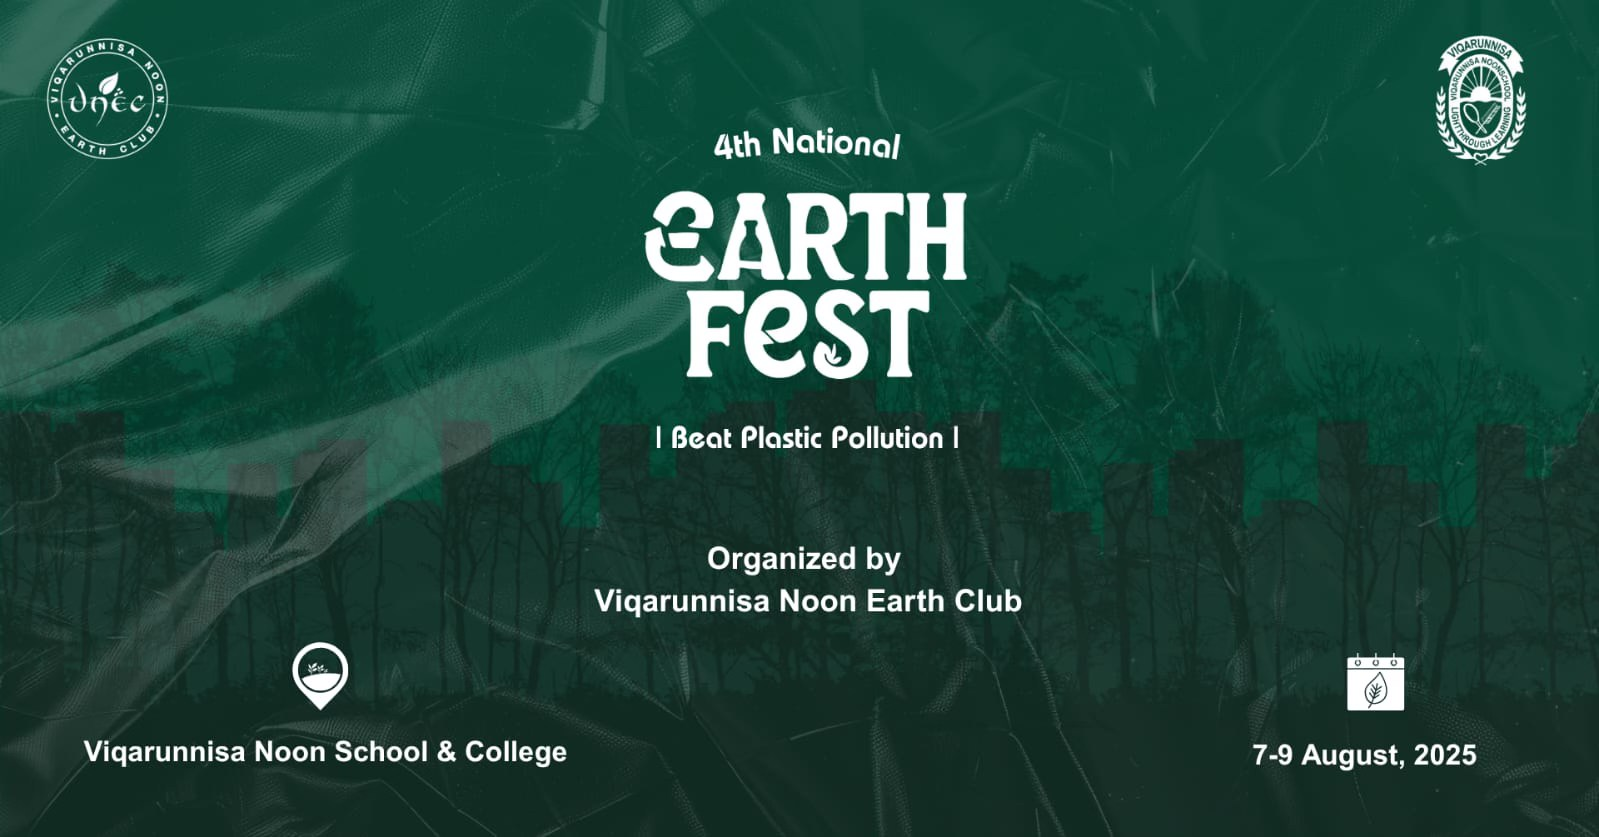
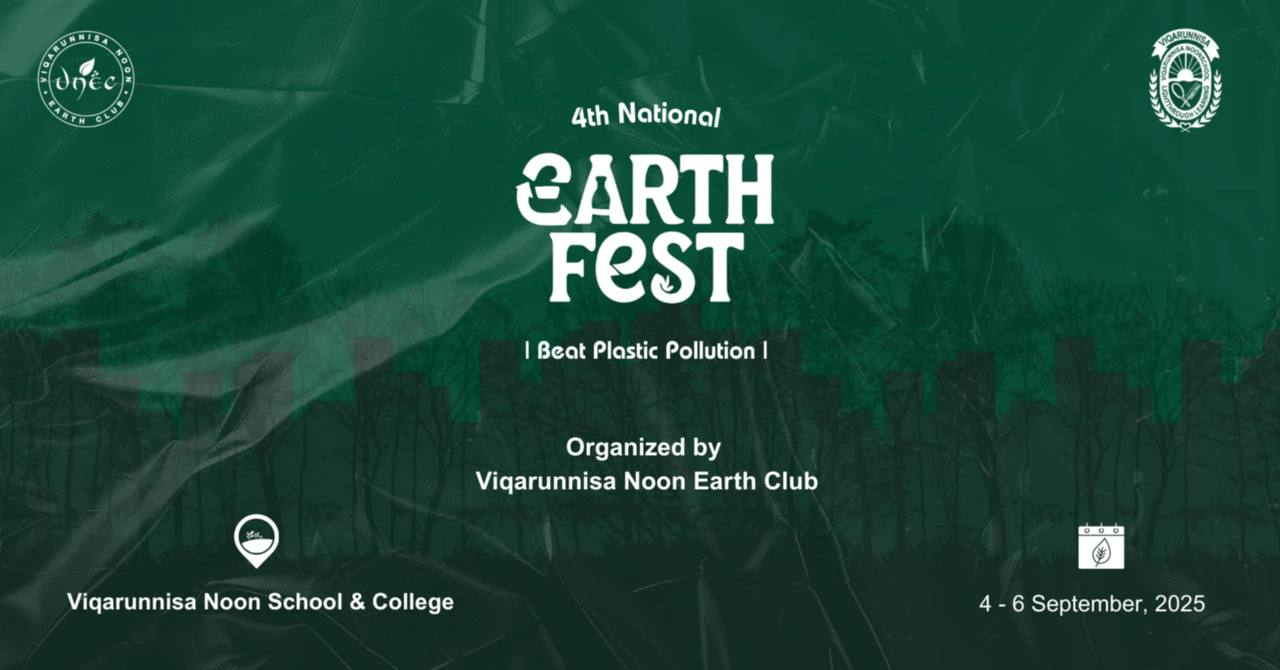
new

Changed region(s): [[0.75, 0.8657, 0.9375, 0.9254]]

diff --git a/index.html b/index.html
@@ -71,7 +71,7 @@
                     </div>
                     <div class="flex items-center gap-2">
                         <svg xmlns="http://www.w3.org/2000/svg" width="24" height="24" viewBox="0 0 24 24" fill="none" stroke="currentColor" stroke-width="2" stroke-linecap="round" stroke-linejoin="round" class="h-5 w-5"><rect width="18" height="18" x="3" y="4" rx="2" ry="2"/><line x1="16" x2="16" y1="2" y2="6"/><line x1="8" x2="8" y1="2" y2="6"/><line x1="3" x2="21" y1="10" y2="10"/></svg>
-                        <span> August, 2025</span>
+                        <span> 4th , 5th & 6th September, 2025</span>
                     </div>
                 </div>
             </div>
@@ -81,7 +81,7 @@
         <section id="about" class="py-24 bg-white">
             <div class="container mx-auto px-4">
                 <div class="text-center mb-16 observe">
-                    <h2 class="text-4xl lg:text-5xl font-extrabold text-slate-900 tracking-tight">About The Fest</h2>
+                    <h2 class="text-4xl lg:text-5xl font-extrabold text-slate-900 tracking-tight">About Us</h2>
                 </div>
                 <div class="grid md:grid-cols-2 gap-12 items-center">
                     <div class="observe">
@@ -156,7 +156,7 @@
         <section id="segments" class="py-24 bg-white">
             <div class="container mx-auto px-4">
                 <div class="text-center mb-16 observe">
-                    <h2 class="text-4xl lg:text-5xl font-extrabold text-slate-900 tracking-tight">Competition Segments</h2>
+                    <h2 class="text-4xl lg:text-5xl font-extrabold text-slate-900 tracking-tight">Competative Segments</h2>
                 </div>
                 <div class="max-w-4xl mx-auto">
                     <div class="tabs-container mb-8 flex justify-center flex-wrap gap-2 p-1 bg-slate-100 border border-slate-200 rounded-full observe"></div>
